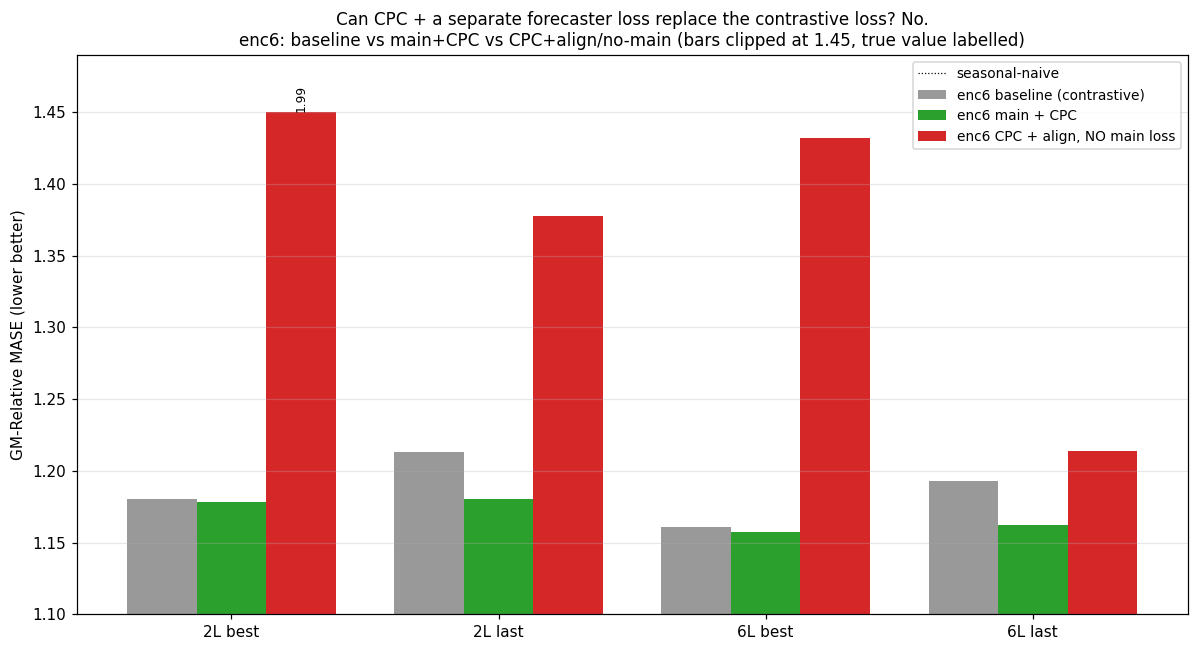
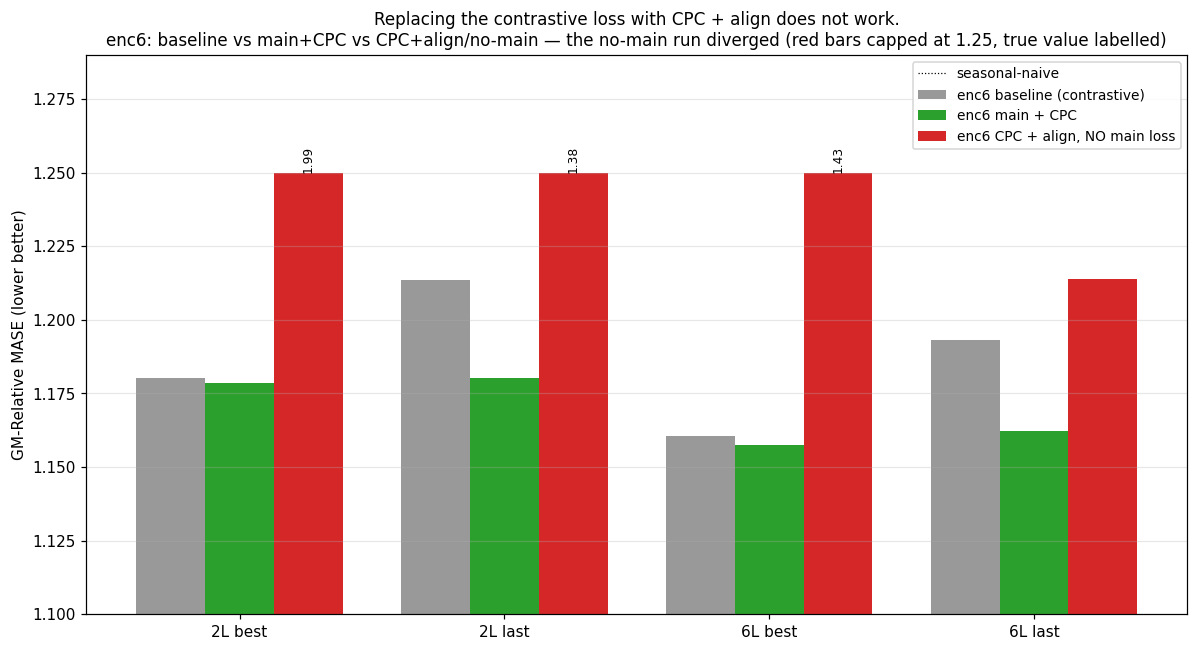
exp(#344): restructure report — integrate all arms, lead with figures, readability pass
- One unified narrative (no separate "Ablation"): all three setups — contrastive
  baseline, +CPC, and CPC+align/no-main — in one Result + one all-arms GM table.
- Lead with the cpc+align figure (clipped at 1.25: the no-main run diverged, so
  capped + labelled rather than read literally), then the +CPC Δ/CI figure, then
  training dynamics.
- Lean on the figures for the qualitative story; move inline GM numbers into the
  table and per-cell Δ/CIs into a back annex; cut repetition and parenthetical
  number-clutter; tighten flow.

diff --git a/experiments/2026-06-13_cpc_infonce_aux/scripts/plot_cpcalign_gm.py b/experiments/2026-06-13_cpc_infonce_aux/scripts/plot_cpcalign_gm.py
@@ -12,7 +12,10 @@ import matplotlib.pyplot as plt
 
 RES = "/home/jupyter/workspaces/contrastive-forecasting/experiments/2026-06-13_cpc_infonce_aux/results"
 OUT = os.path.join(os.path.dirname(__file__), "..", "plots", "cpcalign_gm.png")
-CLIP = 1.45
+# The no-main run diverged; cap its bars at 1.25 so the baseline/+CPC spread
+# stays readable (true values labelled). The cap signals "off the chart, didn't
+# train properly" rather than inviting a literal read of the diverged height.
+CLIP = 1.25
 
 
 def main():
@@ -36,9 +39,9 @@ def main():
     ax.set_ylim(1.1, CLIP + 0.04)
     ax.set_xticks(list(x)); ax.set_xticklabels([f"{h} {c}" for h, c in cells])
     ax.set_ylabel("GM-Relative MASE (lower better)")
-    ax.set_title("Can CPC + a separate forecaster loss replace the contrastive loss? No.\n"
-                 "enc6: baseline vs main+CPC vs CPC+align/no-main (bars clipped at "
-                 f"{CLIP}, true value labelled)", fontsize=11)
+    ax.set_title("Replacing the contrastive loss with CPC + align does not work.\n"
+                 "enc6: baseline vs main+CPC vs CPC+align/no-main — the no-main run diverged "
+                 f"(red bars capped at {CLIP}, true value labelled)", fontsize=11)
     ax.legend(fontsize=9)
     ax.grid(axis="y", alpha=0.3)
     fig.tight_layout()

diff --git a/experiments/2026-06-13_cpc_infonce_aux/cpc_infonce_aux.md b/experiments/2026-06-13_cpc_infonce_aux/cpc_infonce_aux.md
@@ -1,146 +1,123 @@
-# A CPC InfoNCE auxiliary term stabilises late training
+# CPC for the forecaster: a late-training stabiliser, not a replacement for the contrastive loss
 
-**Question.** The contrastive objective pairs the forecaster's context with the *next* encoder
-embedding through a fixed-temperature cosine score. Contrastive Predictive Coding (van den Oord
-et al. 2018) scores that same next-step prediction with a *learnable* log-bilinear map `W₁`
-instead. Does adding CPC's InfoNCE term — summed equal-weight on top of the existing loss, with
-its own learnable `W₁` and no stop-gradient — improve transfer for the two full-forecaster
-stop-grad arms from the stop-grad-capacity report (enc3 and enc6), and does it change
-late-training stability?
+**Question.** Our backbone trains on a contrastive loss that pairs the forecaster's context with
+the *next* encoder embedding through a fixed-temperature cosine score. Contrastive Predictive
+Coding (van den Oord et al. 2018) scores that same next-step prediction with a *learnable*
+log-bilinear map `W₁` instead. We test how that idea fits our objective in three setups: the
+contrastive loss alone (the baseline), the contrastive loss **plus** a CPC term, and CPC **in
+place of** the contrastive loss (paired with a forecaster alignment). Does CPC help as an addition,
+can it stand alone, and what does it do to late-training stability?
 
-**Answer.** It does not move the best-loss checkpoint (4/4 cells neutral), but it **reliably
-improves the last, full-training checkpoint** (4/4 cells better, every 90% interval below zero) —
-reversing the late-training degradation the baselines show. The CPC term is a late-training
-stabiliser, not a peak-performance lever. A further ablation (below) shows the CPC term is an
-*addition* to the contrastive loss, not a replacement: training on CPC + a separate forecaster
-alignment with the contrastive loss removed is reliably and substantially worse.
+**Answer.** Added on top, CPC is a late-training stabiliser: it leaves the best-loss checkpoint
+untouched and reliably improves the last, full-training checkpoint. Used instead of the contrastive
+loss, it does not train — the run diverges and transfers far worse. CPC earns its place as an
+addition to the contrastive objective, not a substitute for it.
 
 ## Result
 
-![Left: GM-Relative MASE, baseline (grey) vs + CPC (green), for each arm × head × checkpoint.
-The best-loss bars are level; every last-checkpoint green bar sits clearly below its grey
-baseline. Right: the CPC − baseline paired-bootstrap Δ with 90% interval per cell — all four
-best-loss cells straddle zero (grey, ns), all four last-checkpoint cells lie entirely below zero
-(green, reliably better).](plots/gm_summary.png)
+![enc6 GM-Relative MASE for the three setups, per head × checkpoint. The CPC+align/no-main run
+diverged, so its bars are capped at 1.25 with the true value labelled. The +CPC bars (green) sit at
+or below the baseline, with the clearest gap at the last checkpoint.](plots/cpcalign_gm.png)
 
-The split is clean and holds across both encoder depths and both head sizes: at the **best-loss**
-checkpoint the term is neutral; at the **last** checkpoint it reliably helps.
+Two things stand out. **Dropping the contrastive loss** — training on CPC plus a forecaster
+alignment alone — does not work: the run diverges and its frozen backbone forecasts well above
+seasonal-naive. **Keeping the contrastive loss and adding CPC** leaves the best-loss checkpoint
+unchanged but pulls the last checkpoint down, undoing the upward drift the baseline shows between
+its best and last checkpoints.
 
-| arm | 2-layer head, base / +CPC | 6-layer head, base / +CPC |
-|---|--:|--:|
-| enc3, full, sg — best-loss | 1.177 / 1.185 | 1.159 / 1.158 |
-| enc3, full, sg — **last** | 1.180 / **1.153** | 1.163 / **1.144** |
-| enc6, full, sg — best-loss | 1.180 / 1.179 | 1.161 / 1.158 |
-| enc6, full, sg — **last** | 1.213 / **1.180** | 1.193 / **1.162** |
+![Left: GM-Relative MASE, baseline vs +CPC, for each arm × head × checkpoint. The best-loss bars
+are level; every last-checkpoint +CPC bar sits below its baseline. Right: the +CPC − baseline
+paired-bootstrap Δ with 90% interval — every best-loss cell straddles zero, every last-checkpoint
+cell lies entirely below it.](plots/gm_summary.png)
 
-Paired-bootstrap Δ = GM(+CPC) − GM(baseline), 90% interval (negative ⇒ CPC better):
+The late-training gain is reliable across both encoder depths and both head sizes: at the best-loss
+checkpoint the term is neutral, and at the last checkpoint every interval falls below zero.
 
-| cell | best-loss Δ (CI) | last Δ (CI) |
-|---|--:|--:|
-| enc3 · 2L | +0.008 (−0.007, +0.024) · ns | **−0.027 (−0.043, −0.012)** |
-| enc3 · 6L | −0.000 (−0.015, +0.014) · ns | **−0.019 (−0.033, −0.007)** |
-| enc6 · 2L | −0.001 (−0.016, +0.012) · ns | **−0.033 (−0.053, −0.014)** |
-| enc6 · 6L | −0.003 (−0.011, +0.006) · ns | **−0.031 (−0.049, −0.014)** |
+GM-Relative MASE, all arms (bold = a reliable improvement over the same-cell baseline):
 
-*Forecast error is **GM-Relative MASE**: the geometric mean, over GIFT-Eval's 97 forecasting
-tasks, of a model's error divided by the seasonal-naive forecast's error. Lower is better; 1.0 is
-seasonal-naive. Each pairwise Δ carries a **paired-bootstrap** 90% interval — resample the 97-task
-list with repeats and score both arms on each resample so per-task difficulty cancels.*
-
-The mechanism is visible in the baselines: their last checkpoint is *worse* than their best
-(enc6·2L 1.180→1.213, enc6·6L 1.161→1.193; enc3 drifts up too). Adding the CPC term removes that
-drift — the last checkpoint lands at or below the best — so the gain is concentrated entirely in
-late training.
-
-**Follow-up (#347):** the stabilisation should be most visible where late training is worst — the
-enc6 + bottleneck + stop-grad arm (#341 arm 4) that *collapsed* at the last checkpoint
-(GM ~2.2 vs ~1.18 at best-loss). #347 tests whether the CPC term rescues it.
-
-## Training dynamics: the term vanishes, the representation does not
-
-![Training metrics, log-log (blues = no CPC, reds = main + CPC, green = the CPC+align/no-main arm
-below; enc3 solid, enc6 dashed). Panel 1 is the contrastive reference loss (normalized InfoNCE at
-τ=0.07, logged for every arm). The CPC term (top row, 2nd panel) plunges from its early peak (~19)
-to <10⁻³ within ~1,000 steps for the main+CPC arms; the CPC arms' reference loss, ratio-gap, 1−R²,
-and 1−AUC all sit below the baselines, with higher time-wise dimension usage
-(U_temporal).](plots/training_dynamics.png)
-
-The unbounded bilinear `W₁` drives the CPC loss to ~0 almost immediately — by step ~1,000 it
-contributes a vanishing *value*. But its early gradient reshapes the representation: the CPC arms
-reach a markedly lower contrastive reference loss (≈10.2 vs ≈12.3–12.4), a lower ratio-gap
-(≈0.40 vs 0.62–0.85, roughly halved for enc3), near-perfect retrieval (AUC→1.0) and higher
-time-wise dimension usage than the baselines, and they hold those through to the end. So the
-pretext task is learned better — but, per the table above, that pretext improvement does not raise
-the best-loss transfer; it surfaces only as a steadier, better last checkpoint.
-
-## Ablation: can CPC + a separate forecaster loss replace the contrastive loss? No
-
-The auxiliary CPC term helps, so a natural question is whether CPC plus a *separate* forecaster
-loss could stand in for the contrastive objective entirely. We trained one more enc6 arm on
-**CPC + the BYOL align term (encoder target stop-gradded), with the main contrastive loss removed**
-— same recipe otherwise. (To keep it comparable at a fraction of the wall-clock, this arm ran
-2-GPU DDP at per-rank batch 512: the loss pools the gathered global batch of 1024, identical to the
-single-GPU baselines.)
-
-![enc6 GM-Relative MASE: baseline (contrastive, grey) vs main+CPC (green) vs CPC+align/no-main
-(red), per head × checkpoint. The 2L-best CPC+align/no-main bar exceeds the 1.45 axis cap and is
-labelled with its true value (1.99); every CPC+align/no-main bar towers over both other
-arms.](plots/cpcalign_gm.png)
-
-Removing the contrastive loss is **reliably and substantially worse**, not better:
-
-| cell | baseline | + CPC | CPC+align, no main | Δ vs baseline (90% CI) |
+| arm · setup | 2L best | 2L last | 6L best | 6L last |
 |---|--:|--:|--:|--:|
-| enc6 · 2L best | 1.180 | 1.179 | **1.993** | +0.813 (+0.71, +0.93) |
-| enc6 · 2L last | 1.213 | 1.180 | **1.378** | +0.164 (+0.13, +0.21) |
-| enc6 · 6L best | 1.161 | 1.158 | **1.432** | +0.272 (+0.23, +0.33) |
-| enc6 · 6L last | 1.193 | 1.162 | **1.214** | +0.021 (−0.01, +0.05) · ns |
+| enc3 · contrastive (baseline) | 1.177 | 1.180 | 1.159 | 1.163 |
+| enc3 · + CPC | 1.185 | **1.153** | 1.158 | **1.144** |
+| enc6 · contrastive (baseline) | 1.180 | 1.213 | 1.161 | 1.193 |
+| enc6 · + CPC | 1.179 | **1.180** | 1.158 | **1.162** |
+| enc6 · CPC + align, no contrastive | 1.99 | 1.38 | 1.43 | 1.21 |
 
-Three of four cells are reliably worse (the fourth only ties, and only because the baseline's own
-6L-last is already degraded); against the main+CPC arm all four are reliably worse. The training
-dynamics show why: without the contrastive loss anchoring the representation, the CPC term never
-settles — it oscillates ~0.01↔10 for the whole run (green, top-row 2nd panel), and the green arm's
-contrastive reference loss, 1−R², and 1−AUC stay elevated and noisy throughout. **The contrastive
-objective carries the representation; CPC and a forecaster alignment are useful additions to it,
-not a replacement for it.**
+*Forecast error is **GM-Relative MASE**: the geometric mean, over GIFT-Eval's 97 forecasting tasks,
+of a model's error divided by the seasonal-naive forecast's error — lower is better, 1.0 is
+seasonal-naive. Each comparison carries a **paired-bootstrap** 90% interval: resample the 97-task
+list with repeats and score both arms on each resample, so per-task difficulty cancels. Per-cell
+intervals are in the annex.*
+
+## Training dynamics
+
+![Training metrics, log-log (blues = no CPC, reds = main+CPC, green = CPC+align/no-main; enc3
+solid, enc6 dashed). The added CPC term (top row, second panel) collapses toward zero within the
+first ~1,000 steps for the main+CPC arms but swings by orders of magnitude for the whole run when
+the contrastive loss is absent.](plots/training_dynamics.png)
+
+The dynamics explain both halves of the result. Without the contrastive loss to anchor the
+representation, the green arm never settles — its reference loss, retrieval, and dimension usage
+stay poor and noisy throughout, and it never recovers. With the contrastive loss kept, the added
+CPC term's *value* vanishes almost immediately, yet its early gradient reshapes the representation:
+the +CPC arms hold a lower contrastive reference loss, a smaller forecast gap, near-perfect
+retrieval, and more time-wise dimensions in use than the baseline, and they keep those to the end.
+That better-learned representation does not lift the best-loss transfer — it surfaces as the
+steadier, better last checkpoint.
 
 ## Protocol
 
-We train one backbone per arm, single seed, on one RTX 4090. Each arm reuses its same-arm
-baseline **exactly** — the #339/#341 recipe (GRU patch-embedding, d_model 384 / 6 heads, a 6-layer
-full-width forecaster, the crossfade-triplet allt·0.8% data mix, qk-norm, attention-output norm,
-the `xshh_allt` contrastive loss with positive-in-denominator and floor subtraction, the
-encoder-side positive stop-gradient `--stopgrad-positive-h`, τ 0.10, batch 1024, 12,500 steps,
-seed 20260520) — with the single addition `--cpc-infonce-weight 1.0`. The two arms differ only in
-encoder depth: **enc3** (3 layers, = report arm 2) and **enc6** (6 layers, = report arm 3).
+We train one backbone per arm, single seed, on RTX 4090s. The baseline and +CPC arms reuse their
+same-arm recipe from the stop-grad-capacity report (#341) **exactly** — GRU patch-embedding,
+d_model 384 / 6 heads, a 6-layer full-width forecaster, the crossfade-triplet allt·0.8% data mix,
+qk-norm, attention-output norm, the `xshh_allt` contrastive loss with positive-in-denominator and
+floor subtraction, the encoder-side positive stop-gradient, τ 0.10, batch 1024, 12,500 steps, seed
+20260520 — differing only by the single addition `--cpc-infonce-weight 1.0` and the encoder depth
+(**enc3** = report arm 2, **enc6** = report arm 3). The CPC+align/no-main arm keeps that recipe but
+drops the contrastive loss, keeping only the CPC term and a BYOL forecaster alignment; it ran on
+two GPUs (per-rank batch 512, global batch 1024 via gathered loss — identical objective to the
+single-GPU baselines).
 
 To score a backbone we freeze it and train a fresh quantile forecasting head on top, once with two
-transformer layers and once with six. We evaluate on GIFT-Eval's 97 tasks at two checkpoints: the
+transformer layers and once with six, then evaluate on GIFT-Eval's 97 tasks at two checkpoints: the
 **best-loss** one (the lowest smoothed contrastive loss, reached within roughly the first
-quarter-to-half of training) and the **last** one (step 12,500). Baselines are the published same-arm numbers from the stop-grad-capacity report; the
-analysis reuses that report's GM and paired-bootstrap code unchanged and reproduces its baseline
-GMs to three decimals.
+quarter-to-half of training) and the **last** one (step 12,500). Baselines are the published
+same-arm numbers from #341; the analysis reuses that report's GM and paired-bootstrap code
+unchanged and reproduces its baseline GMs to three decimals.
 
 ## The added term
 
-Alongside the existing contrastive loss we add one CPC InfoNCE term (van den Oord et al. 2018,
-Eq. 4, horizon k = 1). For each step *t* it predicts the next encoder embedding `e_{t+1}` from the
-autoregressive context `h_t` (the forecaster's output at *t*) through a new learnable log-bilinear
-score `f(e_j, h_t) = exp(e_jᵀ W₁ h_t)`:
+The CPC term (van den Oord et al. 2018, Eq. 4, horizon k = 1) predicts the next encoder embedding
+`e_{t+1}` from the autoregressive context `h_t` (the forecaster's output at *t*) through a new
+learnable log-bilinear score:
 
 ```
 L_cpc = − log(  exp(e_{t+1}ᵀ W₁ h_t)  /  Σ_{e_j ∈ C}  exp(e_jᵀ W₁ h_t)  )
 ```
 
-The candidate set `C` is the true next embedding `e_{t+1}` plus negatives — other sequences'
-embeddings at the same step and the same sequence's embeddings at other steps. The positive sits
-in the denominator, so the term is a normalized InfoNCE that is always ≥ 0. Three choices keep it
-paper-faithful and orthogonal to the existing loss:
+The candidate set `C` is the true next embedding plus negatives — other sequences' embeddings at
+the same step, and the same sequence's embeddings at other steps. The positive sits in the
+denominator, so the term is a normalized InfoNCE that is always ≥ 0. A new learnable `W₁` carries
+the score (the embeddings stay unit-normalized, so `W₁` alone sets the scale — no temperature
+divisor); there is **no stop-gradient**, matching the paper's joint training of the encoder and the
+autoregressive model. When used as an addition, the total loss is the existing contrastive loss
+plus `L_cpc`, equal weight; the BYOL alignment term in the no-contrastive arm stop-grads its
+encoder target.
 
-- **A new learnable `W₁`** (an `H×H` matrix) carries the score; the encoder embeddings stay
-  unit-normalized, so `W₁` alone sets the scale. There is no temperature divisor, and the term's
-  theoretical minimum is already 0 — the existing loss keeps its own temperature and floor.
-- **No stop-gradient.** The paper trains the encoder and the autoregressive model jointly, so the
-  gradient flows through both `h_t` and the targets `e_j`. The `+sg` in the arm names keeps
-  governing only the existing contrastive term.
-- **Equal weight.** Total loss = existing stop-grad contrastive loss **+** `L_cpc`.
+**Next:** #347 — the stabiliser should help most where late training is worst, so #347 tests
+whether the CPC term rescues the bottleneck arm that collapsed at its last checkpoint in #341.
+
+## Annex — per-cell paired-bootstrap Δ (90% interval)
+
+Δ = GM(arm) − GM(same-cell baseline); negative ⇒ the arm beats the baseline.
+
+| cell | +CPC Δ (90% CI) | CPC+align/no-main Δ (90% CI) |
+|---|--:|--:|
+| enc3 · 2L best | +0.008 (−0.007, +0.024) | — |
+| enc3 · 2L last | **−0.027 (−0.043, −0.012)** | — |
+| enc3 · 6L best | −0.000 (−0.015, +0.014) | — |
+| enc3 · 6L last | **−0.019 (−0.033, −0.007)** | — |
+| enc6 · 2L best | −0.001 (−0.016, +0.012) | +0.813 (+0.71, +0.93) |
+| enc6 · 2L last | **−0.033 (−0.053, −0.014)** | +0.164 (+0.13, +0.21) |
+| enc6 · 6L best | −0.003 (−0.011, +0.006) | +0.272 (+0.23, +0.33) |
+| enc6 · 6L last | **−0.031 (−0.049, −0.014)** | +0.021 (−0.008, +0.052) |
